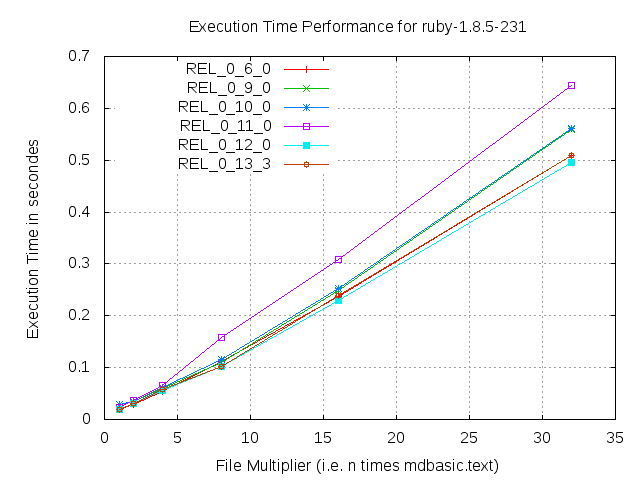
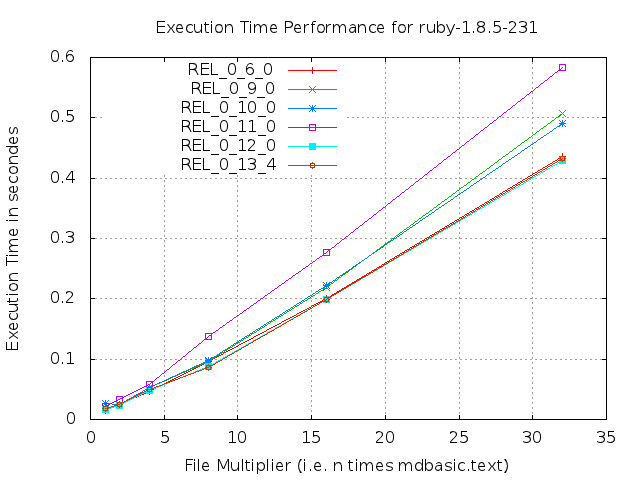
Updated release notes, version number and benchmark graphs

diff --git a/lib/kramdown/version.rb b/lib/kramdown/version.rb
@@ -23,6 +23,6 @@
 module Kramdown
 
   # The kramdown version.
-  VERSION = '0.13.3'
+  VERSION = '0.13.4'
 
 end
